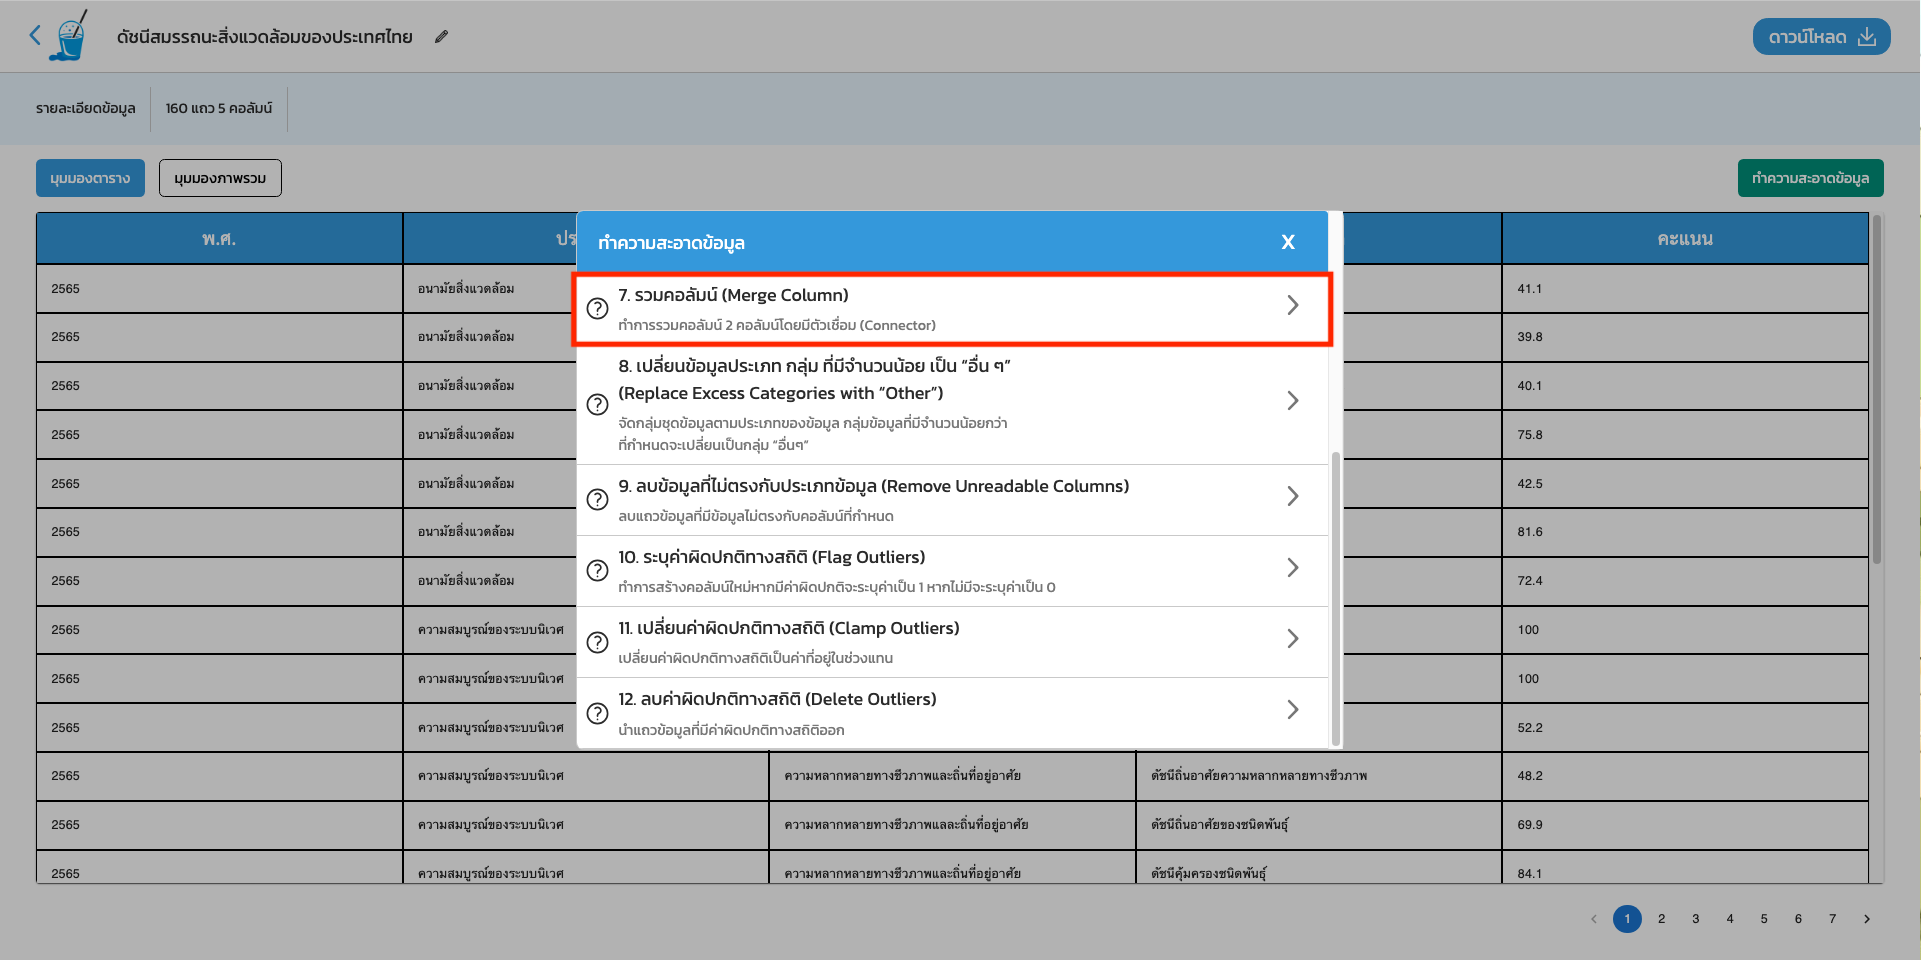
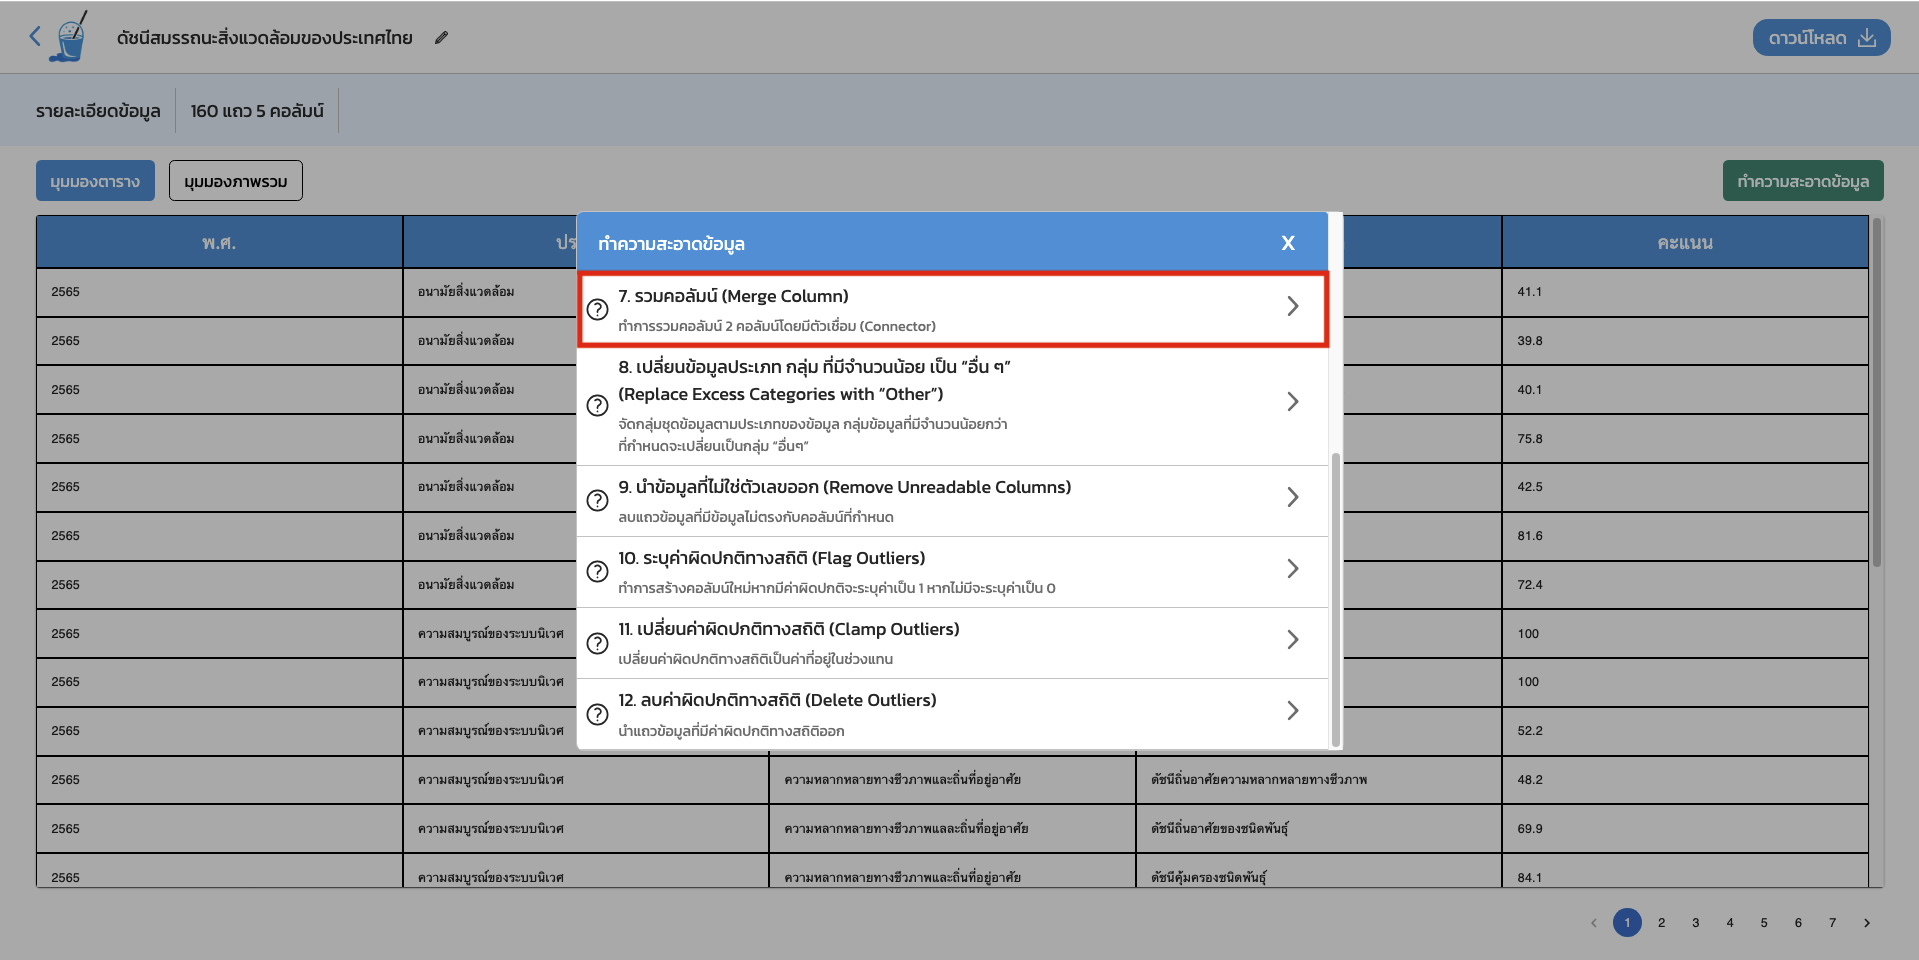
Change picture

diff --git a/src/pages/document.jsx b/src/pages/document.jsx
@@ -172,7 +172,7 @@ const Document = () => {
                     <span className={`text-[16px] lg:text-[20px] xl:text-[24px] `}>
                         ฟังก์ชันที่ 9<br />
                     </span>
-                    ลบข้อมูลที่ไม่ตรงกับประเภทข้อมูล
+                    นำข้อมูลที่ไม่ใช่ตัวเลขออก
                 </a>
                 <a href='#section-ten'
                     className={`pl-4 lg:pl-8 xl:pl-12 py-1 ${activeSection == 10 ? `bg-white text-primary ml-4` : `bg-white text-textPrimary`}`} onClick={() => setActiveSection(10)}>
